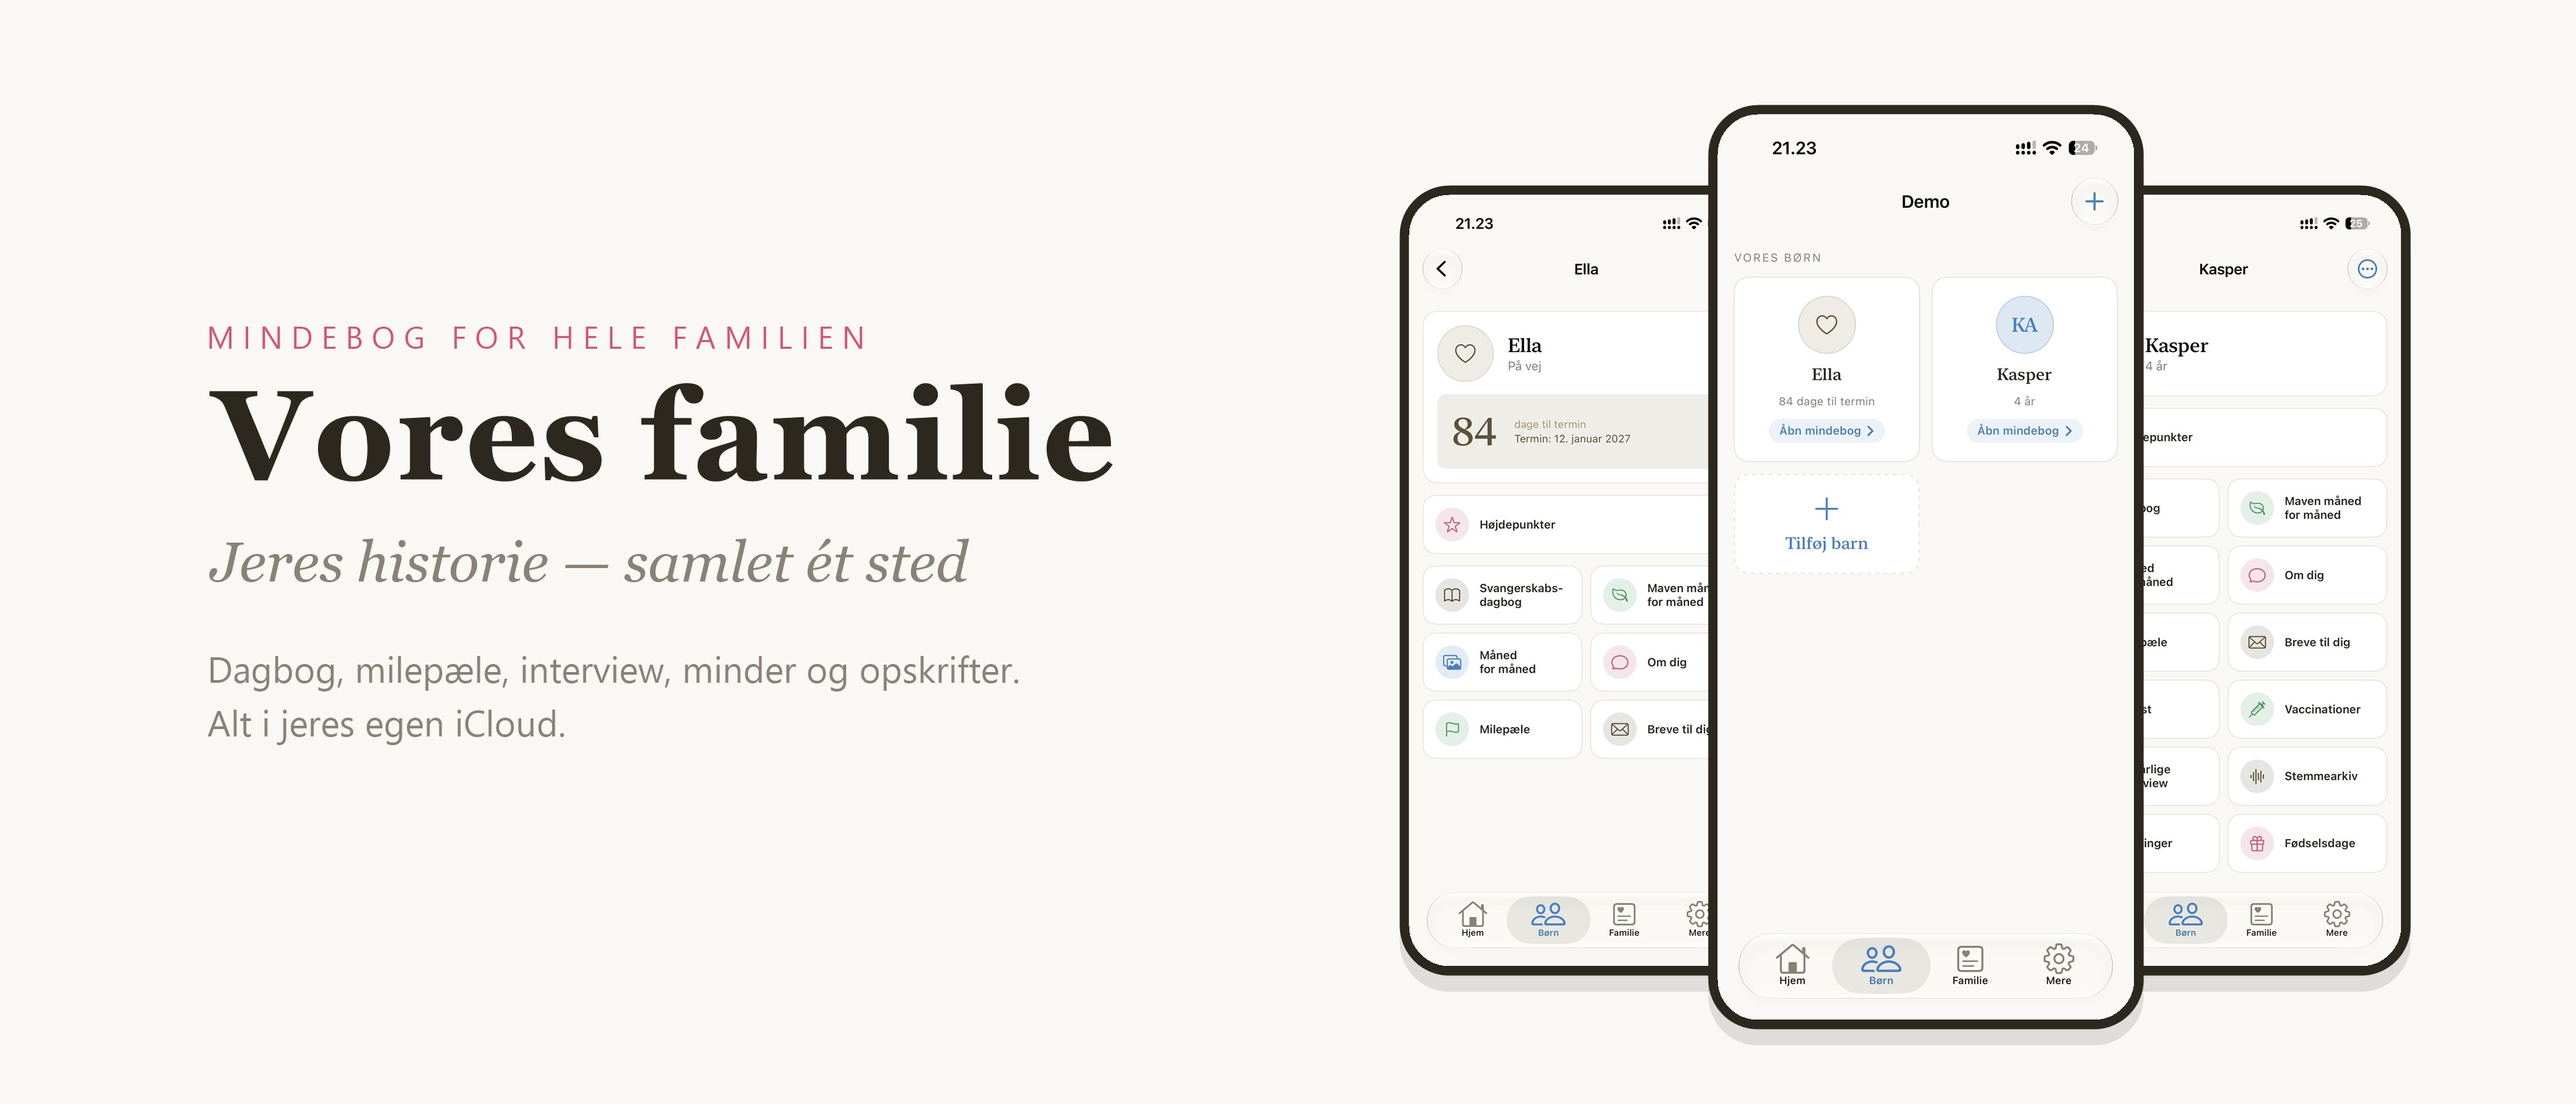
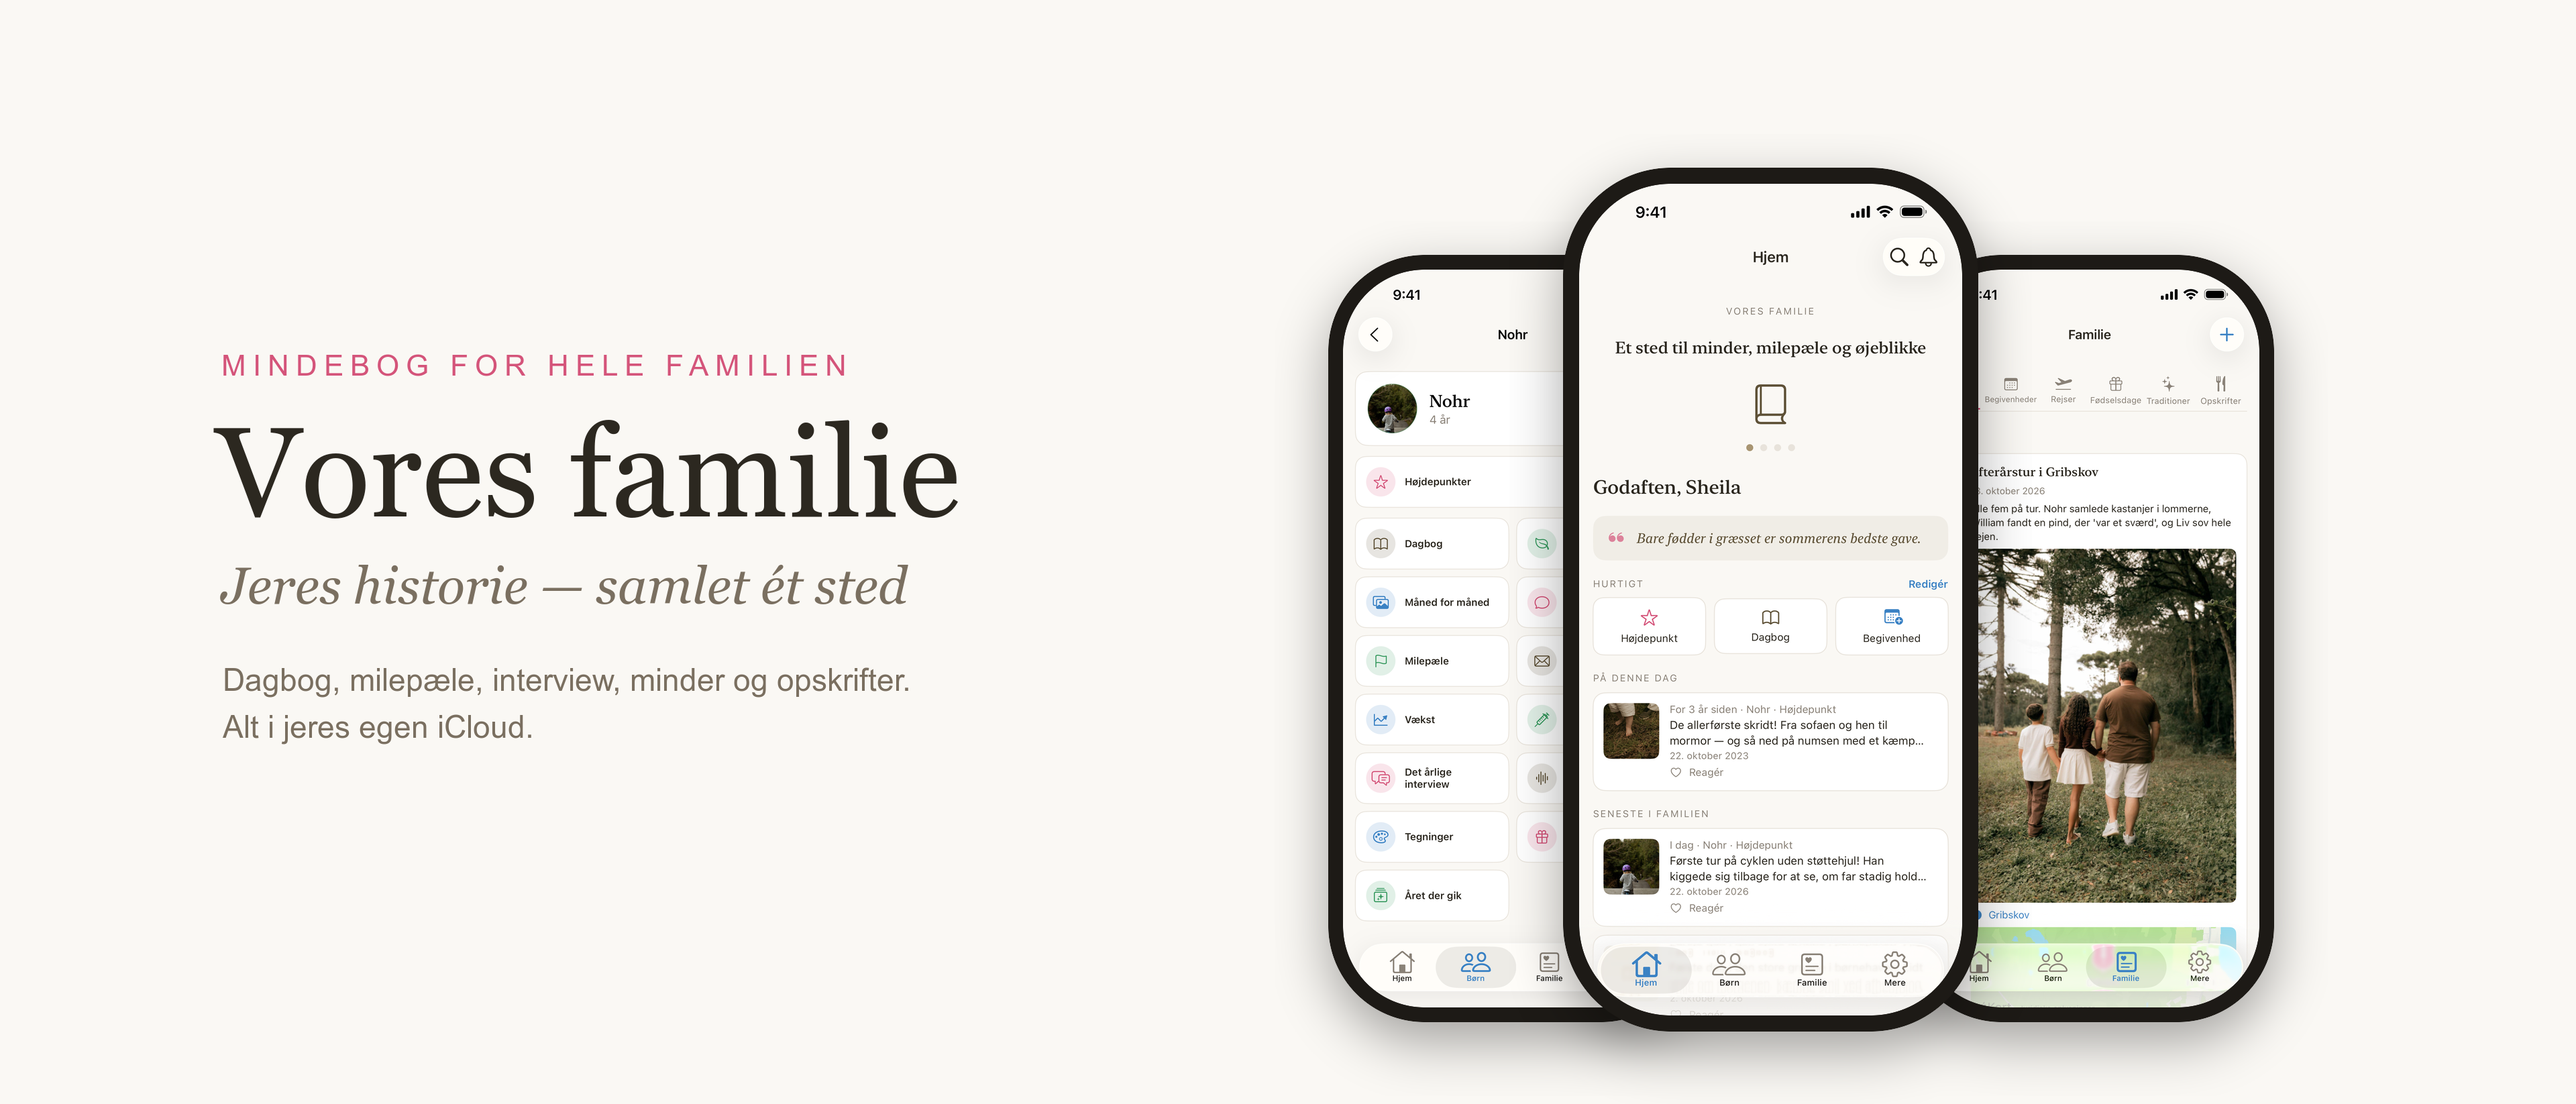
App Store-materiale samlet: nye skærmbilleder (6,9"/6,3"), header og delingsbillede af demo-familien (#20)

Changed region(s): [[0.5, 0.093, 0.9375, 0.9915], [0.0625, 0.2789, 0.4375, 0.5577], [0.0625, 0.5887, 0.4062, 0.6817]]

diff --git a/ios/AppStore/README.md b/ios/AppStore/README.md
@@ -1,0 +1,17 @@
+# App Store-materiale — Vores familie
+
+Alt billedmateriale til App Store og hjemmesiden samlet ét sted.
+Laves automatisk af workflowet **Skærmbilleder (demo-familie)** (`.github/workflows/ios-screenshots.yml`)
+med den fiktive demo-familie (se `ios/Demo/README.md`). Kør workflowet igen, når appen ændrer udseende.
+
+| Fil | Bruges til |
+|---|---|
+| `screenshots/6.9/*.png` (1320×2868) | App Store-skærmbilleder, iPhone 6,9" |
+| `screenshots/6.3/*.png` | App Store-skærmbilleder, iPhone 6,3" |
+| `header.png` (3840×1646) | App Store-header (produktsiden) |
+| `og-image.jpg` (1200×630) | Delingsbillede — kopieret til `apps.prehn.net/vores-familie/og-image.jpg` |
+| `review-paywall.png` | Review-skærmbillede af betalingsskærmen (skal fornyes til 1.1) |
+| `app-store-da.md` | App Store-teksten |
+
+Web-versionerne (WebP) til landingssiden ligger i PrehnApps-repoet: `vores-familie/img/`.
+Billederne af demo-familien er fra Pexels (fri brug, ingen ansigter) — kilder i `ios/Demo/README.md`.
